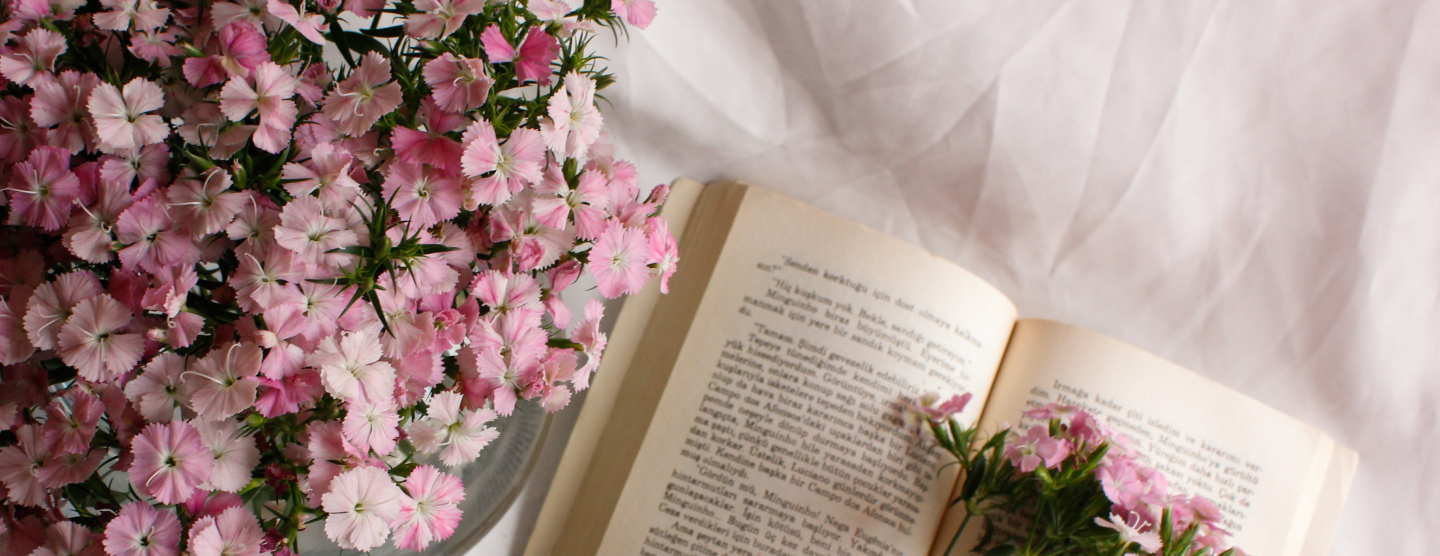
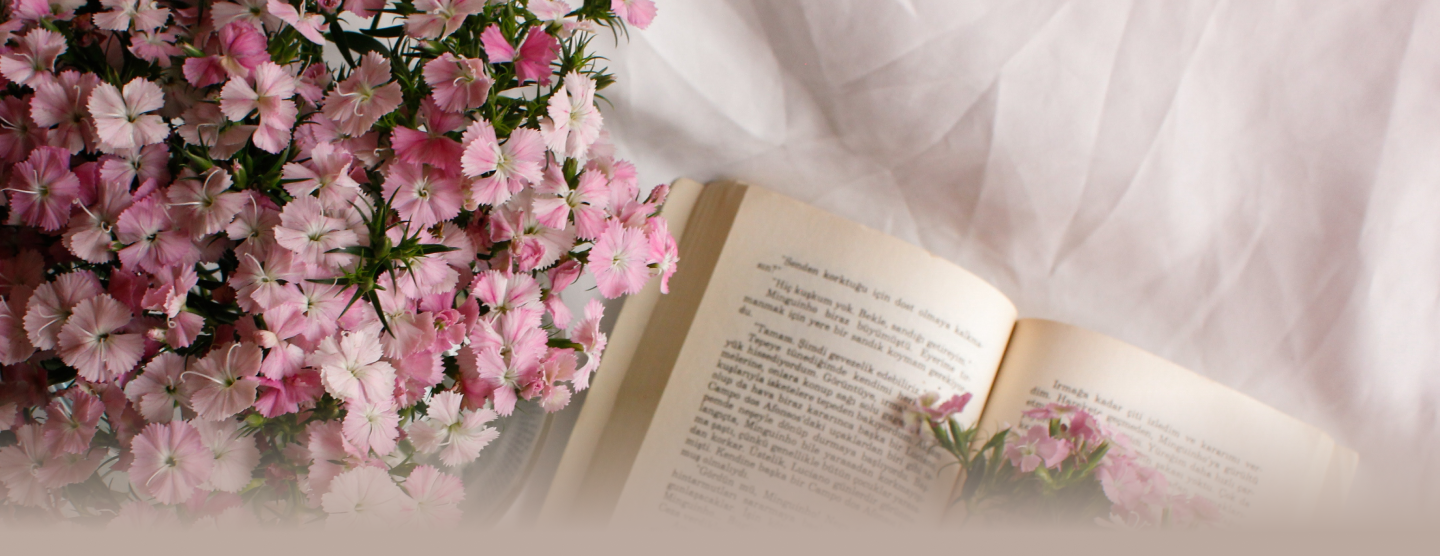
Ajustando layout

Changed region(s): [[0.0, 0.7338, 1.0, 1.0]]

diff --git a/src/App.js b/src/App.js
@@ -3,14 +3,13 @@ import Banner from "./componentes/Banner";
 import Form from "./componentes/Form";
 import Rodape from "./componentes/Footer/Footer";
 import Category from "./componentes/Category";
-import Button from "./componentes/Button";
 
 function App() {
   const categories = [
     {
       nome: "Desenvolvimento Pessoal",
-      corPrimaria: "#C4D4B5",
-      corSecundaria: "#94A684",
+      corPrimaria: "#FFF5F9",
+      corSecundaria: "#BA8D90",
     },
     {
       nome: "Desenvolvimento de Software",
@@ -24,13 +23,13 @@ function App() {
     },
     {
       nome: "Lógica na Ficção: Desafios Mentais",
-      corPrimaria: "#FFF5F9",
-      corSecundaria: "#FFEEF4",
+      corPrimaria: "#C4D4B5",
+      corSecundaria: "#94A684",
     },
     {
       nome: "Outros",
-      corPrimaria: "#C4D4B5",
-      corSecundaria: "#94A684",
+      corPrimaria: "#D9E8D9",
+      corSecundaria: "#AEC3AE",
     },
   ];
 
@@ -94,8 +93,7 @@ function App() {
     {
       title: "Não Me Faça Pensar",
       author: "Steve Krug",
-      image:
-        "https://m.media-amazon.com/images/I/51i8-f+QMFL._SY385_.jpg",
+      image: "https://m.media-amazon.com/images/I/51i8-f+QMFL._SY385_.jpg",
       category: categories[2].nome,
     },
     {
@@ -108,15 +106,13 @@ function App() {
     {
       title: "O Teste da Mãe",
       author: "Rob Fitzpatrick",
-      image:
-        "https://m.media-amazon.com/images/I/6163jHQ-adL._SY385_.jpg",
+      image: "https://m.media-amazon.com/images/I/6163jHQ-adL._SY385_.jpg",
       category: categories[2].nome,
     },
     {
       title: "Roube Como um Artista",
       author: "Austin Kleon",
-      image:
-        "https://m.media-amazon.com/images/I/81FOzurNqvL._SY385_.jpg",
+      image: "https://m.media-amazon.com/images/I/81FOzurNqvL._SY385_.jpg",
       category: categories[2].nome,
     },
     {
@@ -149,55 +145,66 @@ function App() {
   ];
 
   const [books, setBooks] = useState(inicial);
-  const [isModalOpen, setIsModalOpen] = useState(false);
 
-  const openModal = () => {
-    setIsModalOpen(true);
-  };
-
-  const closeModal = () => {
-    setIsModalOpen(false);
+  const [showModal, setShowModal] = useState(false);
+  const handleButtonClick = () => {
+    setShowModal(true);
   };
 
   const deleteBook = (book) => {
     const newListBooks = books.filter((bookExists) => bookExists !== book);
-  setBooks(newListBooks);
-  }
+    setBooks(newListBooks);
+  };
 
   const aoNovoBookAdicionado = (book) => {
-    setBooks([...books, book])
-  }  
+    setBooks([...books, book]);
+  };
 
   return (
     <div>
-      <Banner openModal={openModal} />
-      {isModalOpen && (
-        <div className="modal">
-          <div className="modal-content">
-          <Form
-        isOpen={isModalOpen}
-        onClose={closeModal}
-        categories={categories.map((category) => category.nome)}
-        aoSalvar={book => aoNovoBookAdicionado(book)}/>
-      <Button texto="Fechar Modal" onClick={closeModal} />
-      </div>
-        </div>
-      )}
-      
-      <Form
-        categories={categories.map((category) => category.nome)}
-        aoSalvar={book => aoNovoBookAdicionado(book)}/>
-      <section className="categories">
+      <Banner />
+      <div className="modal">
         <h1>Minha estante</h1>
+        <button className="button-form" onClick={handleButtonClick}>
+          Cadastrar novo livro
+        </button>
+        {showModal && (
+          <div className="modal__fixed">
+            <div className="modal__relative">
+              <div className="modal__rounded">
+                  <h3 className="text-center">
+                    Insira um novo livro
+                  </h3>
+                  <div className="space-y-6">
+                    <Form
+                      categories={categories.map((category) => category.nome)}
+                      aoSalvar={(book) => aoNovoBookAdicionado(book)}
+                    />
+                    <button
+                      className="button-form"
+                      onClick={() => setShowModal(false)}
+                    >
+                      Cancelar
+                    </button>
+                  </div>
+              </div>
+            </div>
+          </div>
+        )}
+      </div>
+
+      {/* <Form
+        categories={categories.map((category) => category.nome)}
+        aoSalvar={(book) => aoNovoBookAdicionado(book)}
+      /> */}
+      <section className="categories">
         {categories.map((category, indice) => (
           <Category
             key={indice}
             category={category}
             corPrimaria={category.corPrimaria}
             corSecundaria={category.corSecundaria}
-            books={books.filter(
-              book => book.category === category.nome
-            )}
+            books={books.filter((book) => book.category === category.nome)}
             aoDeletar={deleteBook}
           />
         ))}

diff --git a/src/index.css b/src/index.css
@@ -42,3 +42,56 @@ h1,
 h2 {
   font-family: 'Poppins', sans-serif;
 }
+
+.button-form {
+  text-align: center;
+  background: var(--secondary-color);
+  border-radius: 10px;
+  font-weight: 700;
+  font-size: 18px;
+  padding: 32px;
+  color: var(--light-color);
+  cursor: pointer;
+}
+
+.modal {
+  display: flex;
+  justify-content: space-between;
+  align-items: center;
+  padding: 0 24px;
+  background: linear-gradient(to bottom, #bba99f, #ba8d90);
+
+}
+
+.modal__fixed {
+  position: fixed;
+  top: 0;
+  right: 0;
+  bottom: 0;
+  left: 0;
+  background-color: #fff;
+  display: flex;
+  align-items: center;
+  justify-content: center;
+  overflow-x: hidden;
+  overflow-y: auto;
+  outline: none;
+}
+
+.modal__fixed.focus {
+  outline: none;
+}
+
+.modal__relative {
+    position: relative;
+    margin-left: auto;
+    margin-right: auto;
+    margin-top: 1.5rem;
+    margin-bottom: 1.5rem;
+}
+
+.modal__rounded {
+    border-radius: 0.375rem; 
+    box-shadow: inset 0 2px 4px 0 rgba(0, 0, 0, 0.06);
+    background-color: #f3f4f6;
+}
